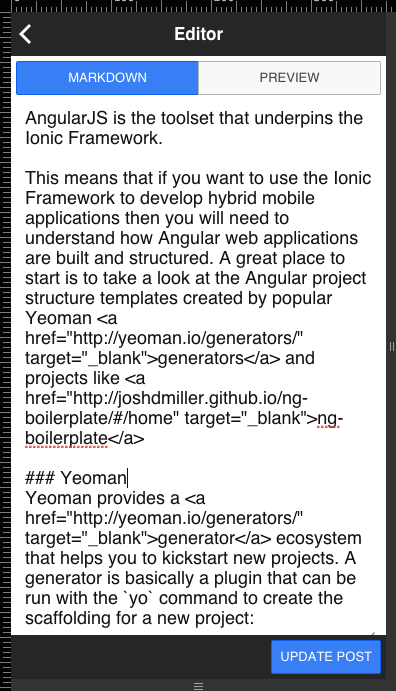
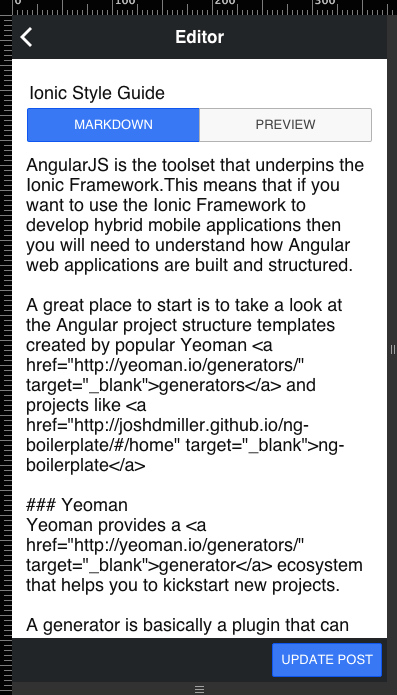
Updated the Editor template & styles

diff --git a/core/client/app/templates/editor-template.html b/core/client/app/templates/editor-template.html
@@ -1,25 +1,35 @@
 <ion-view title="{{ 'EDITOR_TEMPLATE_TITLE' | translate }}">
 
-  <!-- There is no <ion-subheader-bar> directive -->
+  <!-- There is no <ion-subheader-bar> directive
   <div class="bar bar-subheader">
     <div class="button-bar">
-      <a class="button button-positive" translate="MARKDOWN">
-        <!-- Using translateFilter is great, but using translateDirective is better.
-        {{ 'MARKDOWN' | translate }}
-        -->
-      </a>
-      <a class="button" translate="PREVIEW">
-        <!-- Using translateFilter is great, but using translateDirective is better.
-        {{ 'PREVIEW' | translate }}
-        -->
-      </a>
+      <a class="button button-positive" translate="MARKDOWN"></a>
+      <a class="button" translate="PREVIEW"></a>
+    </div>
+  </div>
+  -->
+
+  <!-- There is no <ion-subheader-bar> directive -->
+  <div class="bar bar-subheader">
+    <div class="post-title">
+      <h1>
+        <input type="text" class="form-control markdown-editor" ng-model="item.post.title" placeholder="Your Post Title" required />
+      </h1>
     </div>
   </div>
 
-  <ion-content class="has-subheader">
-      <div class="wrapper">
-        <textarea rows="28" class="markdown-editor" ng-model="item.post.markdown"></textarea>
-      </div>
+  <!-- There is no <ion-subsubheader-bar> directive -->
+  <div class="bar bar-subsubheader">
+    <div class="button-bar padding-left padding-right">
+      <a class="button button-positive" translate="MARKDOWN"></a>
+      <a class="button" translate="PREVIEW"></a>
+    </div>
+  </div>
+
+  <ion-content class="has-subheader has-subsubheader">
+    <div class="post-content">
+      <textarea class="form-control markdown-editor" rows="24" ng-model="item.post.markdown" placeholder="..." required></textarea>
+    </div>
   </ion-content>
 
   <ion-footer-bar class="bar-dark">
@@ -34,14 +44,14 @@
 
 <!--
 
-         <textarea rows="10" ng-model="item.post.markdown"></textarea>
 
-    <form>
-      <div class="wrapper">
-        <textarea ng-model="item.post.markdown" auto-grow></textarea>
-      </div>
-    </form>
 
 -->
 
+<!-- Using translateFilter is great, but using translateDirective is better.
+  {{ 'PREVIEW' | translate }}
+-->
 
+<!-- Using translateFilter is great, but using translateDirective is better.
+  {{ 'MARKDOWN' | translate }}
+-->

diff --git a/core/client/app/styles/styles.scss b/core/client/app/styles/styles.scss
@@ -63,23 +63,38 @@ h6, .h6 { font-size: ceil($font-size-base * 0.85); } // ~12px
   vertical-align: text-top;
 }
 
-.wrapper {
+.post-title {
+  padding-top: 6px;
+  padding-left: 12px;
+  padding-right: 12px;
+}
+
+.post-content {
   padding-top: 6px;
   padding-left: 14px;
   padding-right: 14px;
-
-  // height: 100%;
-  // width: 100%;
-}
-
-.markdown-editor {
-  // height: 100%;
-  width: 100%;
 }
 
 textarea {
   // height: auto;
   resize: none;
+}
+
+.markdown-editor {
+  width: 100%;
+}
+
+// _bar.scss
+.bar-subsubheader {
+  top: $bar-height + $bar-height;
+  display: block;
+
+  height: $bar-subheader-height;
+}
+
+// _scaffolding.scss
+.has-subsubheader {
+  top: $bar-height + $bar-subheader-height + $bar-subheader-height;
 }
 
 // Misc

diff --git a/core/client/app/templates/preview-template.html b/core/client/app/templates/preview-template.html
@@ -10,7 +10,7 @@
 
   <ion-content>
 
-    <div class="wrapper">
+    <div class="post-content">
       <h1 class="padding-top">{{item.post.title}}</h1>
       <div ng-bind-html="item.post.html"></div>
     </div>
